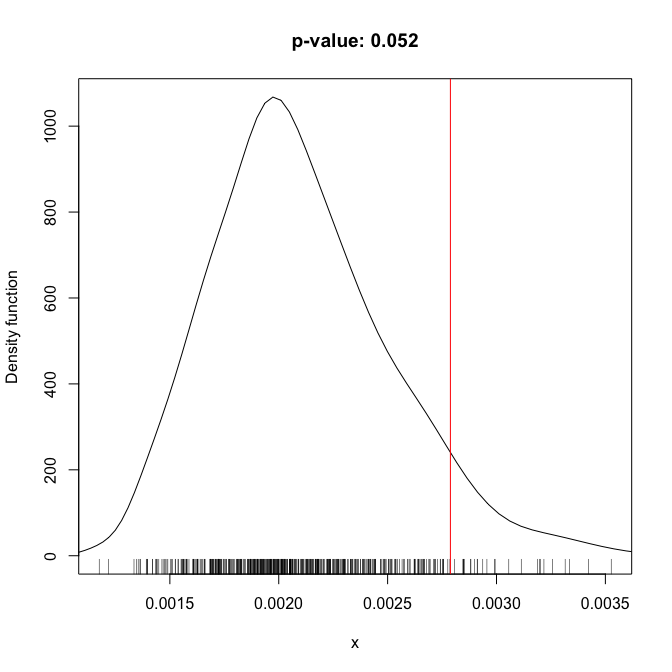
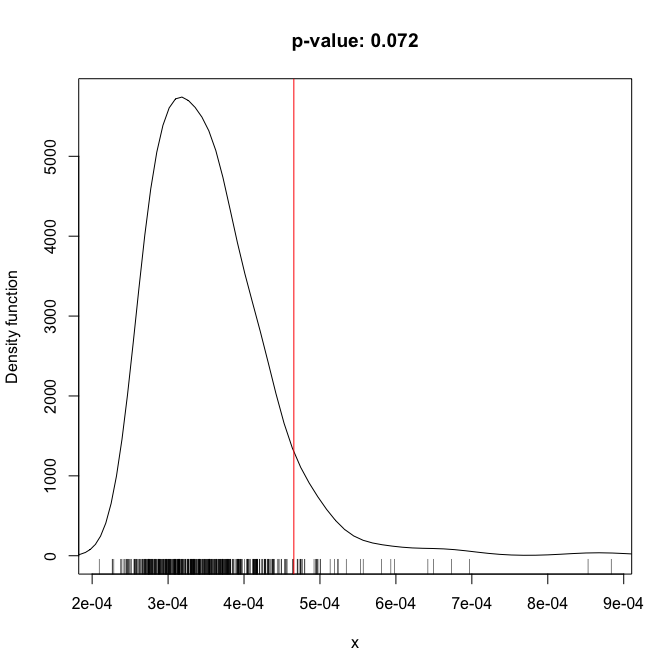
Reduce running times examples

diff --git a/README.md b/README.md
@@ -4,7 +4,7 @@
 
 [![License](https://img.shields.io/badge/license-GPL%20v3-blue.svg)](https://www.gnu.org/licenses/gpl-3.0)
 [![Travis build
-status](https://travis-ci.com/egarpor/goffda.svg?branch=master)](https://travis-ci.com/egarpor/goffda)
+status](https://travis-ci.org/egarpor/goffda.svg?branch=master)](https://travis-ci.org/egarpor/goffda)
 [![CRAN
 status](https://www.r-pkg.org/badges/version/goffda)](https://cran.r-project.org/package=goffda)
 <!-- badges: end -->
@@ -38,8 +38,8 @@ of the package, `flm_test`. More examples are available in `?flm_test`.
 # Generate data under H0
 n <- 100
 set.seed(987654321)
-X_fdata <- r_ou(n = n, t = seq(0, 1, l = 201), sigma = 2)
-epsilon <- r_ou(n = n, t = seq(0, 1, l = 201), sigma = 0.5)
+X_fdata <- r_ou(n = n, t = seq(0, 1, l = 101), sigma = 2)
+epsilon <- r_ou(n = n, t = seq(0, 1, l = 101), sigma = 0.5)
 Y_fdata <- epsilon
 
 # Test the FLMFR
@@ -53,7 +53,7 @@ flm_test(X = X_fdata, Y = Y_fdata, verbose = FALSE)
     #>  predictor and functional response)
     #> 
     #> data:  Y_fdata ~ X_fdata
-    #> statistic = 0.0027883, p = 17, q = 17, p-value = 0.052
+    #> statistic = 0.0004656, p = 17, q = 20, p-value = 0.072
     
     # Simple hypothesis
     flm_test(X = X_fdata, Y = Y_fdata, beta0 = 0, verbose = FALSE)
@@ -65,13 +65,13 @@ flm_test(X = X_fdata, Y = Y_fdata, verbose = FALSE)
     #>  predictor and functional response; simple hypothesis)
     #> 
     #> data:  Y_fdata ~ X_fdata
-    #> statistic = 0.0064122, p = 17, q = 17, p-value = 0.464
+    #> statistic = 0.00077811, p = 17, q = 20, p-value = 0.73
     
     # Generate data under H1
     n <- 100
     set.seed(987654321)
-    sample_frm_fr <- r_frm_fr(scenario = 3, n = n, s = seq(0, 1, l = 201),
-                              t = seq(0, 1, l = 201), nonlinear = "quadratic")
+    sample_frm_fr <- r_frm_fr(n = n, scenario = 3, s = seq(0, 1, l = 101),
+                              t = seq(0, 1, l = 101), nonlinear = "quadratic")
     X_fdata <- sample_frm_fr[["X_fdata"]]
     Y_fdata <- sample_frm_fr[["Y_fdata"]]
     
